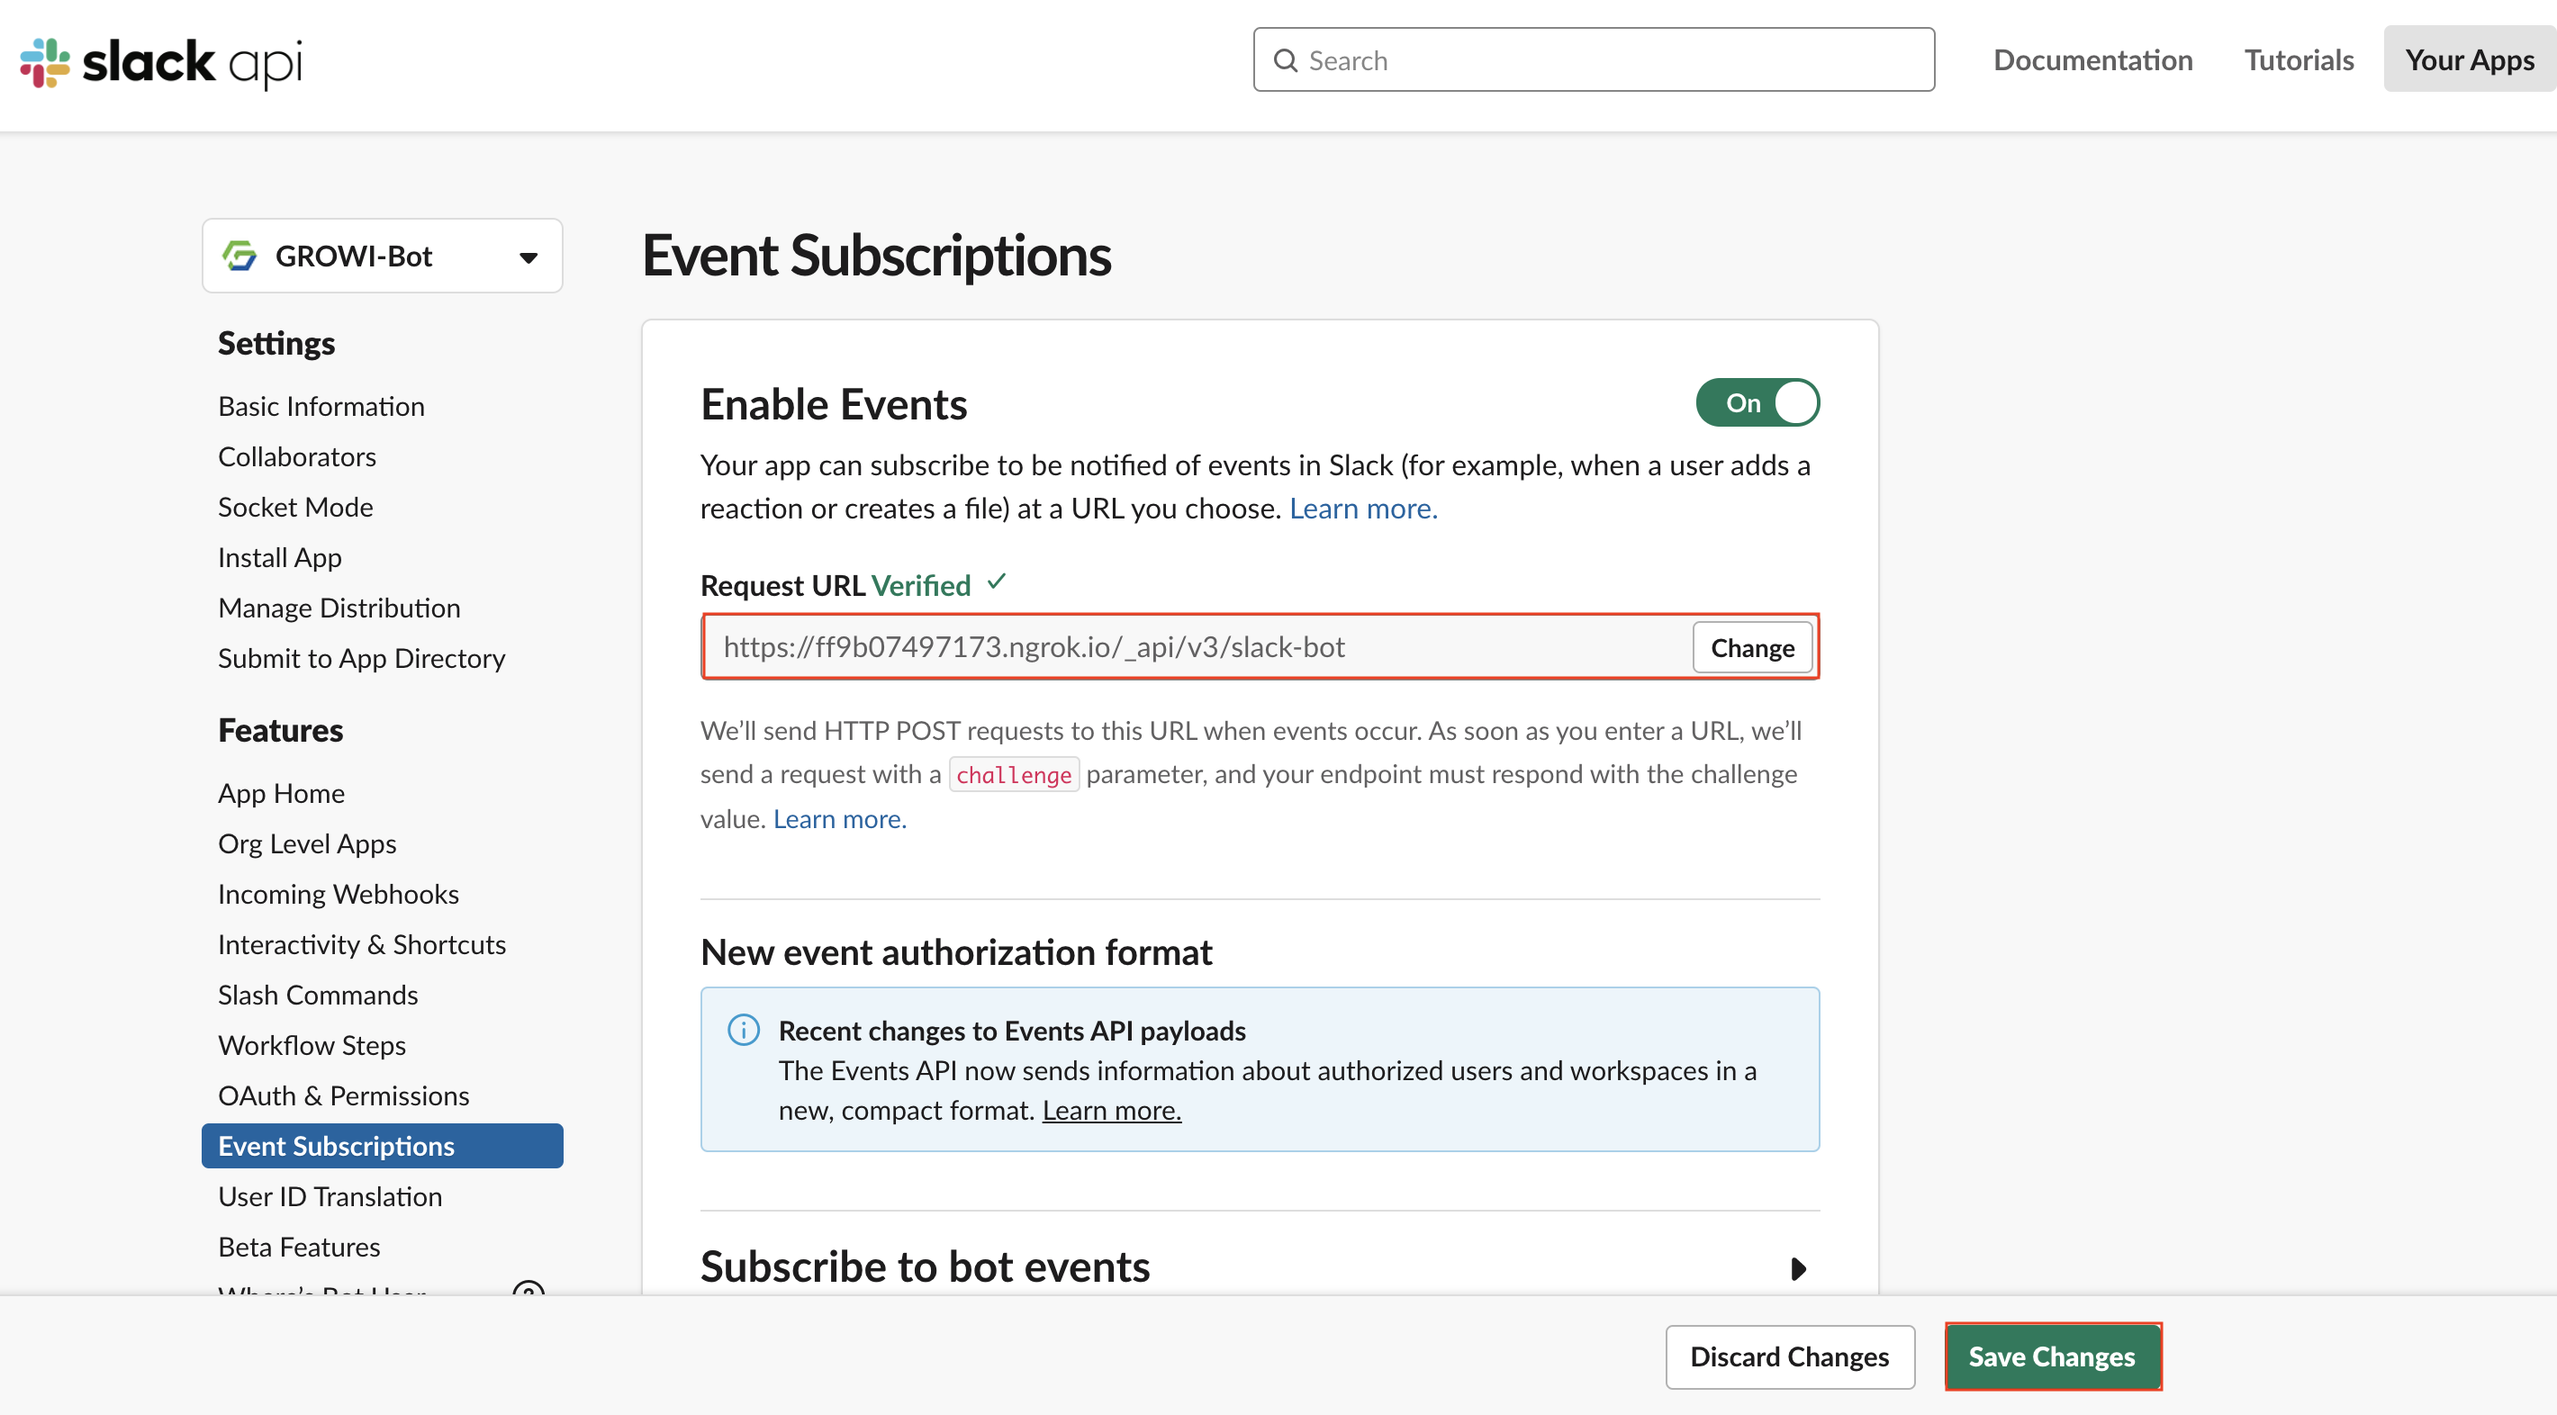
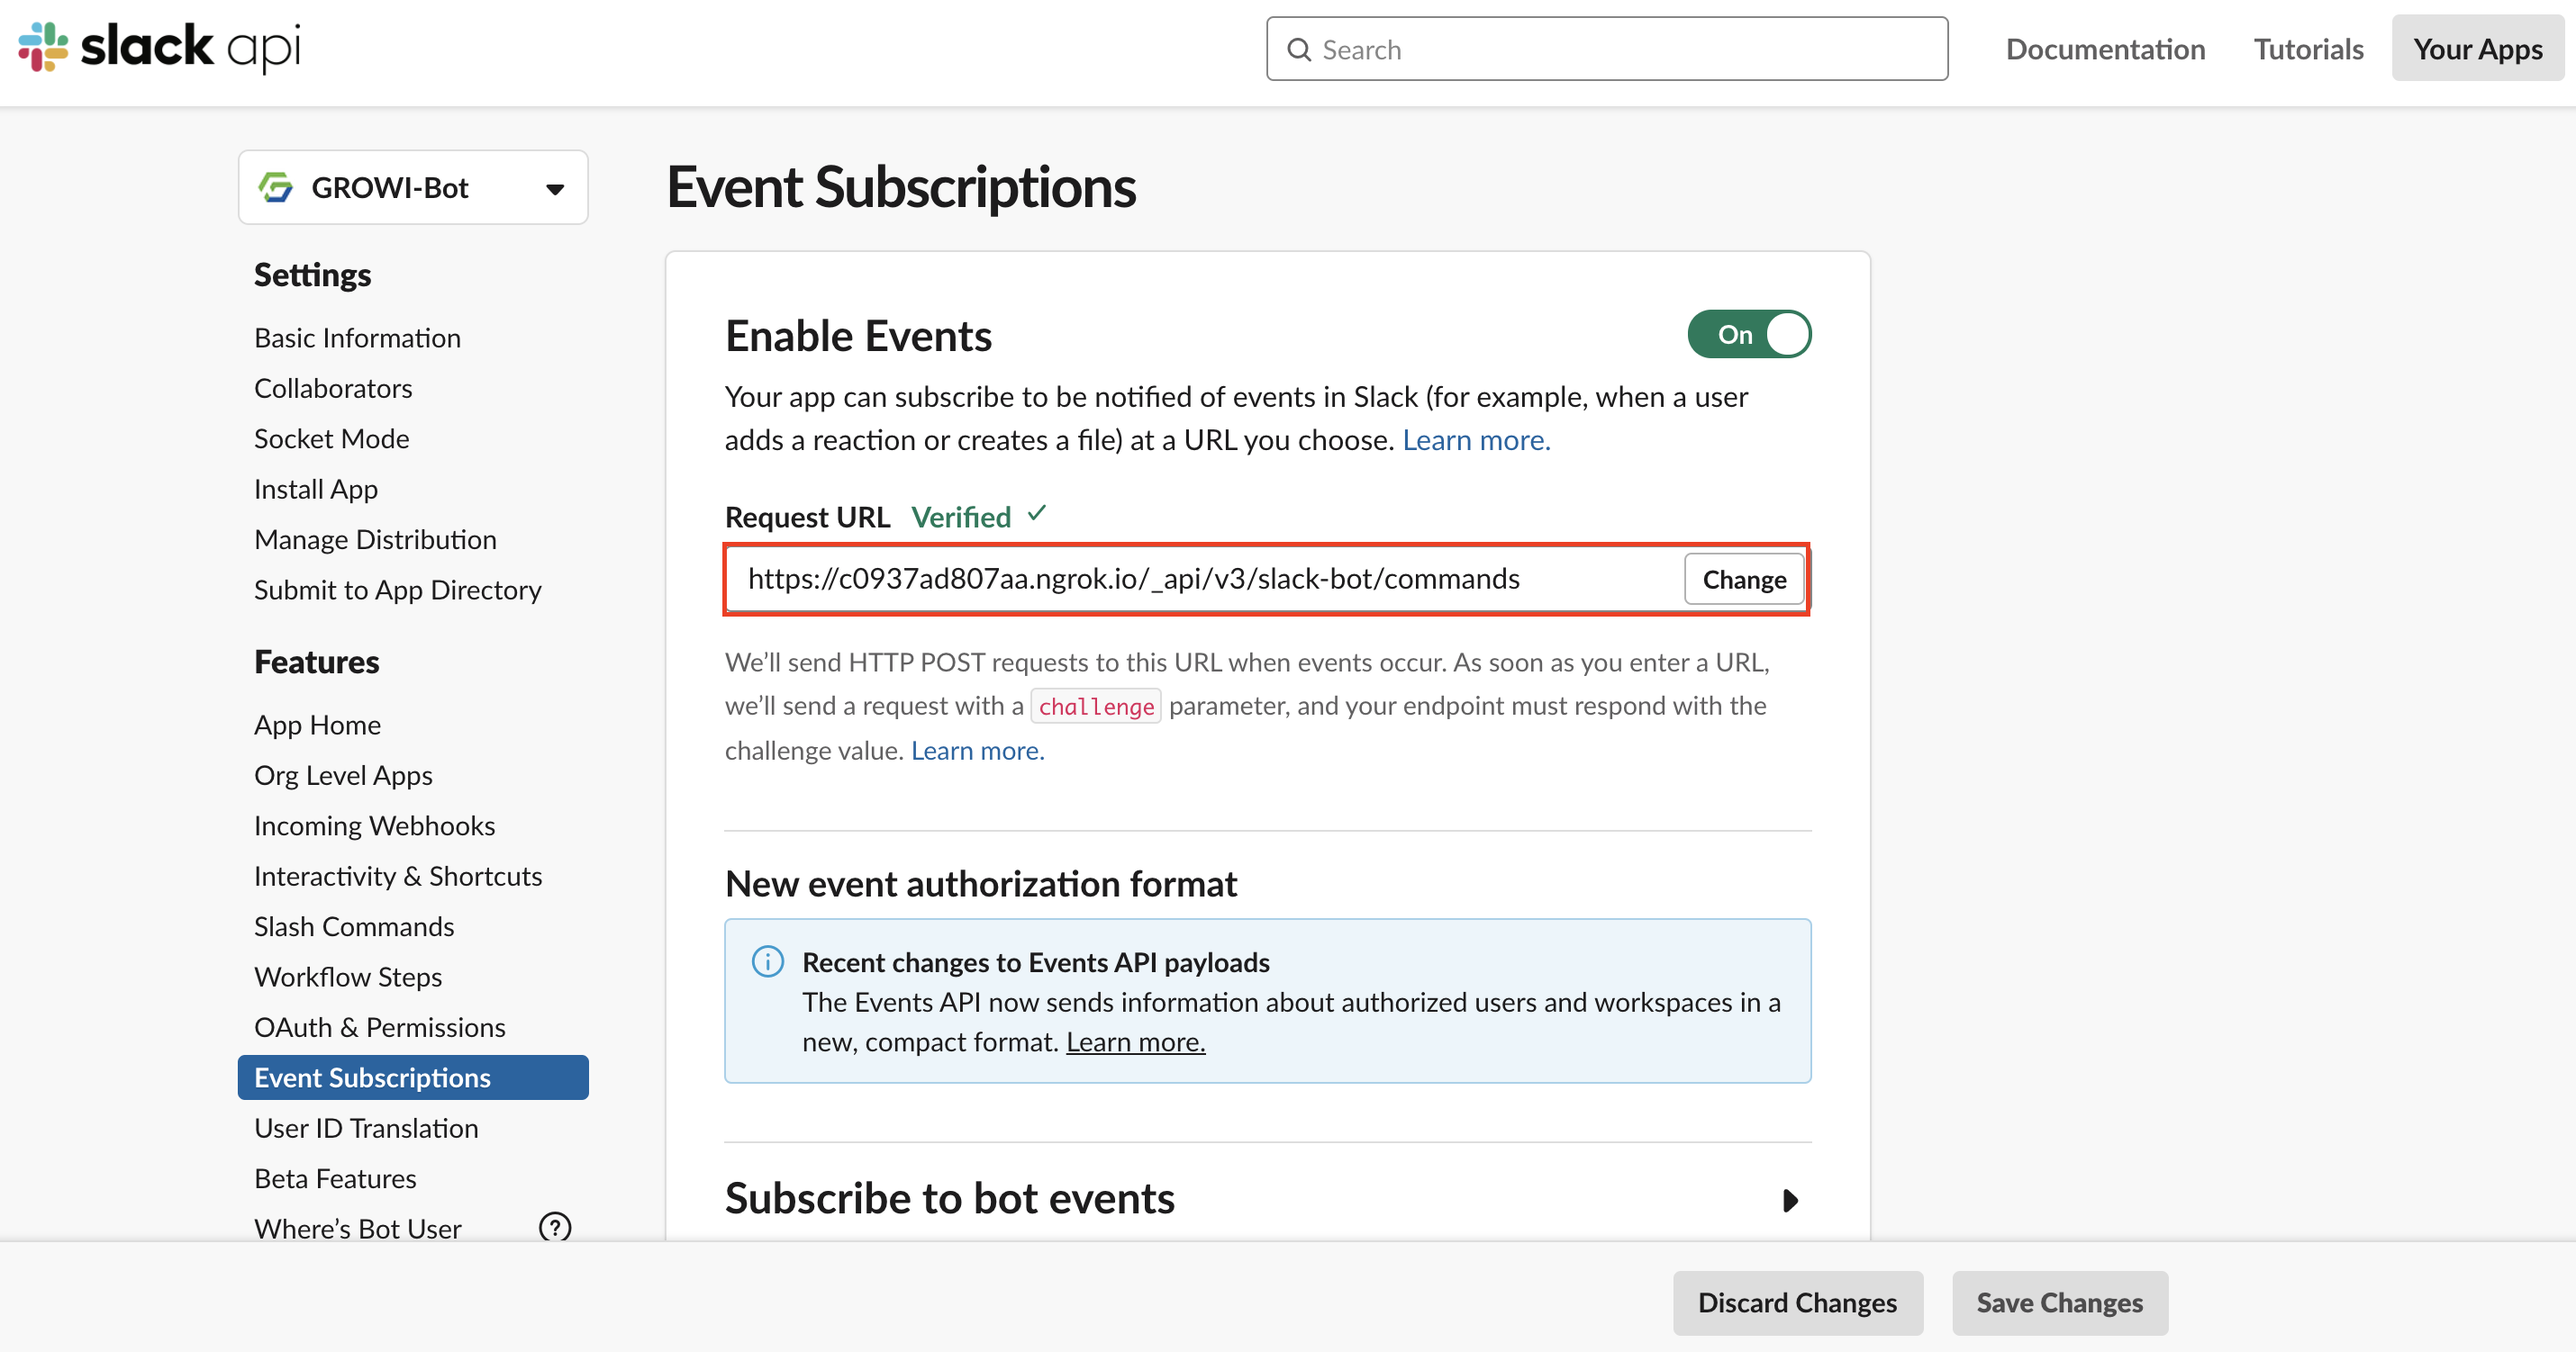
apply commands interactions

diff --git a/docs/ja/admin-guide/management-cookbook/slack-integration.md b/docs/ja/admin-guide/management-cookbook/slack-integration.md
@@ -77,11 +77,11 @@ Custom bot without proxy を Slack のワークスペースに導入するには
   1. Request URL を以下のように入力してください。
 
       - https:// 連携させたい GROWI のドメイン名 /\_api/v3/slack-bot
-        - 例 <https://example.com/_api/v3/slack-bot>
+        - 例 **https://example.com/_api/v3/slack-bot/commands**
 
      ![slack-bot-event-subscriptions-creation](../../../.vuepress/public/assets/images/slack-bot-event-sucscriptions-creation.png)
 
-  1. 入力が完了したら、**Save Changes** をクリックしてください。
+  1. 入力が完了し **Verified** が表示されたら、Slack api から GROWI サーバーへの通信は成功しています。
 
 - **Interactivity & Shortcuts** の Request URL を設定する
 
@@ -93,12 +93,12 @@ Custom bot without proxy を Slack のワークスペースに導入するには
 
   1. Request URL を以下のように入力してください。
 
-      - https:// 連携させたい GROWI のドメイン名 /\_api/v3/slack-bot/interactive
-        - 例 <https://example.com/_api/v3/slack-bot/interactive>
+      - https:// 連携させたい GROWI のドメイン名 /\_api/v3/slack-bot/interactions
+        - 例 **https://example.com/_api/v3/slack-bot/interactions**
 
      ![slack-bot-interactivity-shortcuts-creation](../../../.vuepress/public/assets/images/slack-bot-interactivity-shortcuts-creation.png)
 
-  1. 入力が完了したら、**Save Changes** をクリックしてください。
+  1. 
 
 #### スラッシュコマンドの作成
 
@@ -111,7 +111,7 @@ Custom bot without proxy を Slack のワークスペースに導入するには
 ![slash-commands-create-new-command](../../../.vuepress/public/assets/images/slash-commands-create-new-command.png)
 
 - Command に /growi と入力してください。
-- RequestURL には、上記で設定した Request URL と同じものを入力してください
+- RequestURL には、 **https://example.com/_api/v3/slack-bot/commands** と入力してください
 - Short Description も入力必須のため、適当なご説明を入力してください。
 - Usage Hint に関しては任意なので、適宜入力してください。
 - Escape channels, users, and links sent to your app に関しては任意なので、適宜入力してください。
